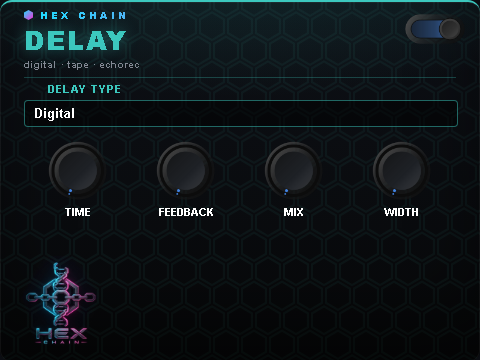
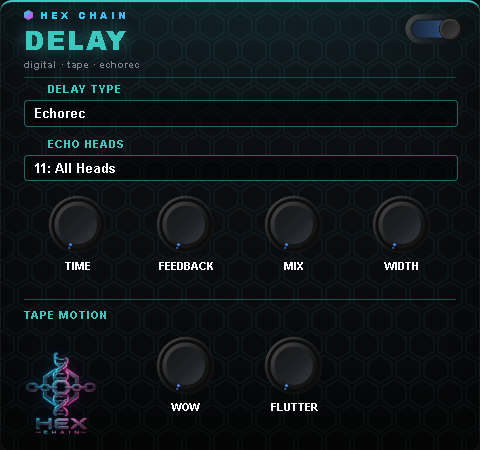
delay: Echorec head/program selector; fix Life Pedal octave
Echorec:
- Expose the 12 Binson Echorec rotary programs as a "Heads" enum on the delay
  plugin, mapping program -> headMask (the DSP already summed heads by mask but
  it was never reachable). Pos 12 = all heads + a dense 1/8 tap (EchorecDelay
  bit4; DelayBlock/EchorecDelay masks widened to 0x1F).
- modgui-delay: Echo Heads dropdown shown for Echorec only; pedal grown to fit
  the type+heads+knobs+tape layout; refreshed screenshot/thumbnail.

Life Pedal octave:
- Octave was forwarded and processed but inaudible — the octave path's band-pass
  was a narrow 1.2 kHz, putting the 2f octave outside the band for normal notes.
  Broadened to ~350 Hz/Q0.5 and lifted the blend level so the knob is audible.

diff --git a/lv2/modgui-delay/icon-delay.html b/lv2/modgui-delay/icon-delay.html
@@ -25,6 +25,23 @@
         {{/controls.0}}
     </div>
 
+    <!-- Echo heads: Binson Echorec head/program selector — shown for Echorec only -->
+    <div rata-role="echogroup" class="mod-echogroup mod-hidden">
+        {{#controls.8}}
+        <div class="mod-heads-row">
+            <span class="mod-section-label">ECHO HEADS</span>
+            <div class="mod-enumerated mod-model-select" mod-role="input-control-port" mod-port-symbol="{{symbol}}" mod-widget="custom-select" title="{{name}}">
+                <div mod-role="input-control-value" mod-port-symbol="{{symbol}}" class="mod-enumerated-selected"></div>
+                <div class="mod-enumerated-list">
+                    {{#scalePoints}}
+                    <div mod-role="enumeration-option" mod-port-value="{{value}}">{{label}}</div>
+                    {{/scalePoints}}
+                </div>
+            </div>
+        </div>
+        {{/controls.8}}
+    </div>
+
     <div class="mod-control-group mod-knobs clearfix">
         {{#controls.1}}<div class="mod-knob" title="{{name}}"><div class="mod-knob-image" mod-role="input-control-port" mod-port-symbol="{{symbol}}"></div><span class="mod-knob-title">{{name}}</span></div>{{/controls.1}}
         {{#controls.2}}<div class="mod-knob" title="{{name}}"><div class="mod-knob-image" mod-role="input-control-port" mod-port-symbol="{{symbol}}"></div><span class="mod-knob-title">{{name}}</span></div>{{/controls.2}}

diff --git a/lv2/modgui-delay/stylesheet-delay.css b/lv2/modgui-delay/stylesheet-delay.css
@@ -11,7 +11,9 @@
     background-repeat: repeat, no-repeat, no-repeat;
     background-position: center top, center top, center top;
     background-size: 28px 49px, 100% 100%, 100% 100%;
-    height: 360px;
+    /* Tall enough for the Echorec layout (type + echo-heads + knobs + tape motion);
+       shorter modes leave the lower area empty, which the hex panel fills. */
+    height: 450px;
     width: 480px;
     position: absolute;
     border-radius: 12px;
@@ -49,6 +51,10 @@
 }
 .mod-pedal-guitaramp-delay{{{cns}}} .mod-section-divider { height: 1px; margin: 12px 24px 8px; background: rgba(60,200,190,.35); }
 .mod-pedal-guitaramp-delay{{{cns}}} .mod-amp-modelrow { margin-top: 80px; padding: 0 24px; position: relative; }
+
+/* ECHO HEADS row (Echorec only) */
+.mod-pedal-guitaramp-delay{{{cns}}} .mod-echogroup { position: relative; }
+.mod-pedal-guitaramp-delay{{{cns}}} .mod-heads-row { padding: 10px 24px 0; position: relative; }
 
 /* KNOBS */
 .mod-pedal-guitaramp-delay{{{cns}}} .mod-control-group { position: relative; text-align: center; }

diff --git a/lv2/modgui-delay/script-delay.js b/lv2/modgui-delay/script-delay.js
@@ -3,7 +3,9 @@ function (event, funcs) {
     // hidden for Digital (0).
     function update_type(icon, value) {
         var t = parseInt(value, 10);
+        // Wow/Flutter: Tape (1) + Echorec (2).  Echo Heads: Echorec (2) only.
         icon.find('[rata-role=tapegroup]').toggleClass('mod-hidden', t === 0);
+        icon.find('[rata-role=echogroup]').toggleClass('mod-hidden', t !== 2);
     }
 
     if (event.type == 'start') {

diff --git a/deps/guitar-amp-simulator/src/EchorecDelay.cpp b/deps/guitar-amp-simulator/src/EchorecDelay.cpp
@@ -105,6 +105,15 @@ float EchorecDelay::processSample(float x, int ch) noexcept {
             ++headCount;
         }
     }
+    // Position-12 "dense" mode (bit 4): an extra tap at the 1/8 drum position
+    // (between the write head and H1) for maximum rhythmic density. Read raw —
+    // closest to the write head, so head-oxide HF loss is negligible.
+    if (headMask_ & 0x10) {
+        float dn = timeSmoother_.current() * 0.125f * fs / 1000.0f / currentSpeedMod_;
+        dn = std::clamp(dn, 1.0f, static_cast<float>(bufLen - 2));
+        wet += readFrac(s.drumBuf, dn, s.writeIdx);
+        ++headCount;
+    }
     if (headCount > 0) wet *= (1.0f / static_cast<float>(headCount));
 
     // Feedback path: tanh soft clip → LP 3.5 kHz → HP 120 Hz.
@@ -131,7 +140,7 @@ void EchorecDelay::setParameter(const std::string& id, float v) noexcept {
     if      (id == "timeMs")        timeMs_       = std::clamp(v, 40.0f, kMaxDelayMs);
     else if (id == "feedback")      feedback_     = std::clamp(v, 0.0f, 0.98f);
     else if (id == "mix")           mix_          = std::clamp(v, 0.0f, 1.0f);
-    else if (id == "headMask")      headMask_     = static_cast<int>(v) & 0x0F;
+    else if (id == "headMask")      headMask_     = static_cast<int>(v) & 0x1F;  // bit4 = dense tap
     else if (id == "wowDepth")      wowDepth_     = std::clamp(v, 0.0f, 1.0f);
     else if (id == "flutterDepth")  flutterDepth_ = std::clamp(v, 0.0f, 1.0f);
     else if (id == "noiseLevel")    noiseLevel_   = std::clamp(v, 0.0f, 1.0f);

diff --git a/deps/guitar-amp-simulator/src/LifePedal.cpp b/deps/guitar-amp-simulator/src/LifePedal.cpp
@@ -69,7 +69,9 @@ float LifePedal::processSample(float x, int ch) noexcept {
     const float oct    = s.octBPF.process(dcFree);
 
     float distorted = s.postLPF.process(clipped);
-    const float dirty = distorted + octaveCur_ * oct;
+    // Octave-up blended into the dirty path. Scaled up so the knob is clearly
+    // audible (the rectified 2f is otherwise low-level next to the clipped signal).
+    const float dirty = distorted + octaveCur_ * 1.5f * oct;
 
     // Stage 3: clean/dirty blend + output boost.
     // level=0 → 0 dB (×1 unity), level=1 → +6 dB (×2).
@@ -124,9 +126,11 @@ void LifePedal::recalcFilters() noexcept {
     // DC block: 20 Hz 1-pole HPF to remove rectification DC before the BPF.
     const auto dcC = Filters::highpass1pole(20.0, fs);
 
-    // Octave BPF: 2nd-order, 1.2 kHz, Q=1.0, 0 dB peak.
-    // Q=1.0 gives a ±1 octave bandwidth (octave below and above centre pass).
-    const auto bpC = Filters::bandpass(1200.0, 1.0, fs);
+    // Octave BPF: broad band-pass centred ~350 Hz, low Q (0.5) → roughly 100 Hz–
+    // 1 kHz. A narrow 1.2 kHz band (the old value) put the octave (2·fundamental)
+    // OUTSIDE the passband for normal guitar notes, so the octave knob did nothing.
+    // This wide band passes the 2f octave across open strings and low frets.
+    const auto bpC = Filters::bandpass(350.0, 0.5, fs);
 
     for (auto& c : ch_) {
         c.preHPF.setCoeffs(preHPC);

diff --git a/lv2/delay/delay_plugin.cpp b/lv2/delay/delay_plugin.cpp
@@ -18,7 +18,17 @@ enum DelayPorts {
     P_WOW     = 9,
     P_FLUTTER = 10,
     P_BYPASS  = 11,
+    P_HEADS   = 12,   // Echorec rotary program (0..11); ignored by Digital/Tape
     P_N_PORTS
+};
+
+// The 12 Echorec rotary programs -> playback-head bitmask.
+// bit0=H1 (1/4) · bit1=H2 (1/2) · bit2=H3 (3/4) · bit3=H4 (full) · bit4=dense tap.
+static const int kEchorecProgram[12] = {
+    0x01, 0x02, 0x04, 0x08,   //  1- 4: single heads H1, H2, H3, H4
+    0x03, 0x06, 0x0C,         //  5- 7: H1+H2, H2+H3, H3+H4
+    0x07, 0x0E, 0x0D,         //  8-10: H1+H2+H3, H2+H3+H4, H1+H3+H4
+    0x0F, 0x1F,               // 11-12: all heads, all heads + dense tap
 };
 
 struct DelayPlugin {
@@ -55,6 +65,10 @@ static void delay_run(LV2_Handle h, uint32_t n) {
     p->dsp.setParameter("stereoWidth",  *p->ports[P_WIDTH]);
     p->dsp.setParameter("wowDepth",     *p->ports[P_WOW]);
     p->dsp.setParameter("flutterDepth", *p->ports[P_FLUTTER]);
+
+    int prog = static_cast<int>(*p->ports[P_HEADS] + 0.5f);
+    prog = (prog < 0) ? 0 : (prog > 11) ? 11 : prog;
+    p->dsp.setParameter("headMask", static_cast<float>(kEchorecProgram[prog]));
 
     float* ins[2]  = { p->ports[P_IN_L],  p->ports[P_IN_R]  };
     float* outs[2] = { p->ports[P_OUT_L], p->ports[P_OUT_R] };

diff --git a/build-tools/gen_thumbnails.py b/build-tools/gen_thumbnails.py
@@ -29,8 +29,11 @@ PED = {
     '<div class="mod-control-group mod-switches clearfix">' + sw("Bypass") + '</div>'),
  "drive": dict(w=360,h=300,tw=180,title="DRIVE",tag=f"TS-808 {DOT} Life Pedal {DOT} ProCo RAT", body=
     modelrow("PEDAL MODEL","TS-808") + knobs("Drive","Tone","Level","Mix")),
- "delay": dict(w=480,h=360,tw=180,title="DELAY",tag=f"digital {DOT} tape {DOT} echorec", body=
-    modelrow("DELAY TYPE","Digital") + knobs("Time","Feedback","Mix","Width")),
+ "delay": dict(w=480,h=450,tw=180,title="DELAY",tag=f"digital {DOT} tape {DOT} echorec", body=
+    modelrow("DELAY TYPE","Echorec") +
+    '<div class="mod-echogroup"><div class="mod-heads-row"><span class="mod-section-label">ECHO HEADS</span>' + sel("11: All Heads") + '</div></div>' +
+    knobs("Time","Feedback","Mix","Width") +
+    '<div class="mod-tapegroup"><div class="mod-section-divider"></div><span class="mod-section-label">TAPE MOTION</span><div class="mod-control-group mod-knobs clearfix">' + knob("Wow") + knob("Flutter") + '</div></div>'),
  "gate": dict(w=360,h=300,tw=180,title="GATE",tag=f"noise gate {DOT} hysteresis", body=
     knobs("Threshold","Attack","Hold","Release","Hysteresis")),
  "comp": dict(w=420,h=340,tw=210,title="COMPRESSOR",tag=f"VCA {DOT} 1176-style", body=

diff --git a/deps/guitar-amp-simulator/src/DelayBlock.cpp b/deps/guitar-amp-simulator/src/DelayBlock.cpp
@@ -83,7 +83,7 @@ void DelayBlock::setParameter(const std::string& id, float v) {
     else if (id == "flutterDepth") pFlutterDepth_ = v;
     else if (id == "saturation")   pSaturation_   = v;
     else if (id == "tapeAge")      pTapeAge_      = v;
-    else if (id == "headMask")     pHeadMask_     = static_cast<int>(v) & 0x0F;
+    else if (id == "headMask")     pHeadMask_     = static_cast<int>(v) & 0x1F;
     else if (id == "noiseLevel")   pNoiseLevel_   = v;
 
     if (model_)    model_->setParameter(id, v);
